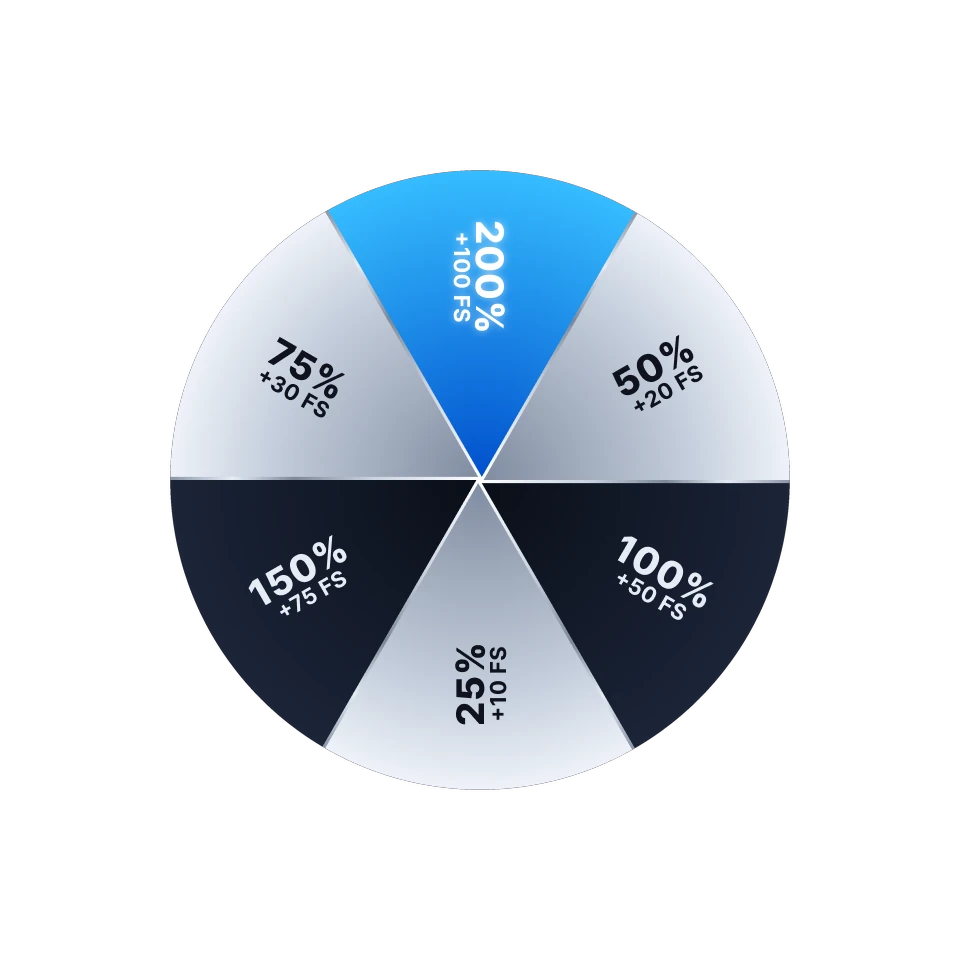
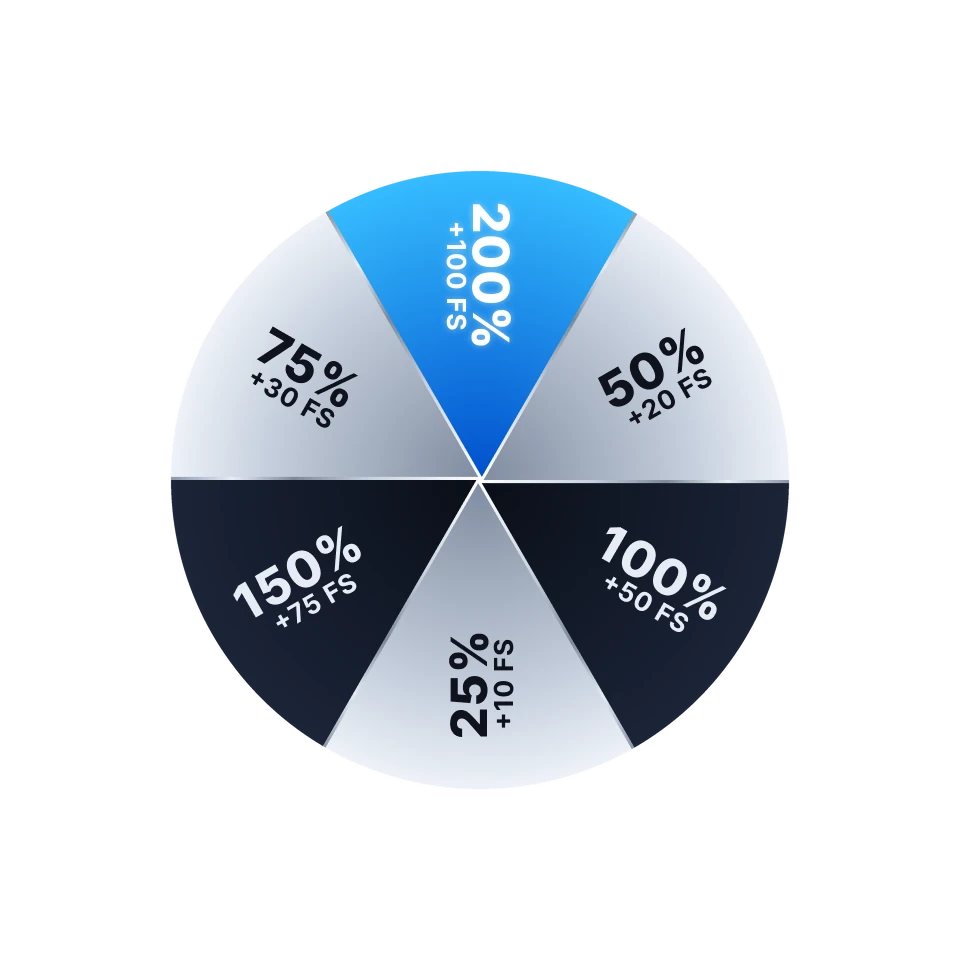
Use the larger wheel labels (variant B, about 25 percent bigger) with the soft glow around 200%. Add a version query to the disc image and bump the asset version to 20261112.9 so cached copies are replaced.

diff --git a/index.html b/index.html
@@ -13,7 +13,7 @@
   <link rel="icon" href="assets/img/ui/favicon.ico">
   <link rel="preload" href="assets/fonts/inter-latin-var.woff2" as="font" type="font/woff2" crossorigin>
   <link rel="preload" href="assets/img/wheel/static.webp" as="image">
-  <link rel="stylesheet" href="css/main.css?v=20261112.8">
+  <link rel="stylesheet" href="css/main.css?v=20261112.9">
 </head>
 <body class="fit-offer-a fit-timer-a fit-pay-a">
 
@@ -47,7 +47,7 @@
 
     <div class="wheel" id="wheel" role="img" aria-label="Ruota dei bonus: 200% + 100 giri gratis, 50% + 20 giri gratis, 100% + 50 giri gratis, 25% + 10 giri gratis, 150% + 75 giri gratis, 75% + 30 giri gratis">
       <img class="wheel__static" src="assets/img/wheel/static.webp" alt="" width="960" height="960">
-      <img class="wheel__disc" src="assets/img/wheel/disc.webp" alt="" width="960" height="960">
+      <img class="wheel__disc" src="assets/img/wheel/disc.webp?v=20261112.9" alt="" width="960" height="960">
       <img class="wheel__vignette" src="assets/img/wheel/vignette.svg" alt="">
       <img class="wheel__hubring" src="assets/img/wheel/hub-ring.svg" alt="">
       <img class="wheel__hubcore" src="assets/img/wheel/hub-core.svg" alt="">
@@ -194,7 +194,7 @@
   </div>
 </dialog>
 
-<script src="js/platform.js?v=20261112.8"></script>
-<script src="js/app.js?v=20261112.8"></script>
+<script src="js/platform.js?v=20261112.9"></script>
+<script src="js/app.js?v=20261112.9"></script>
 </body>
 </html>
